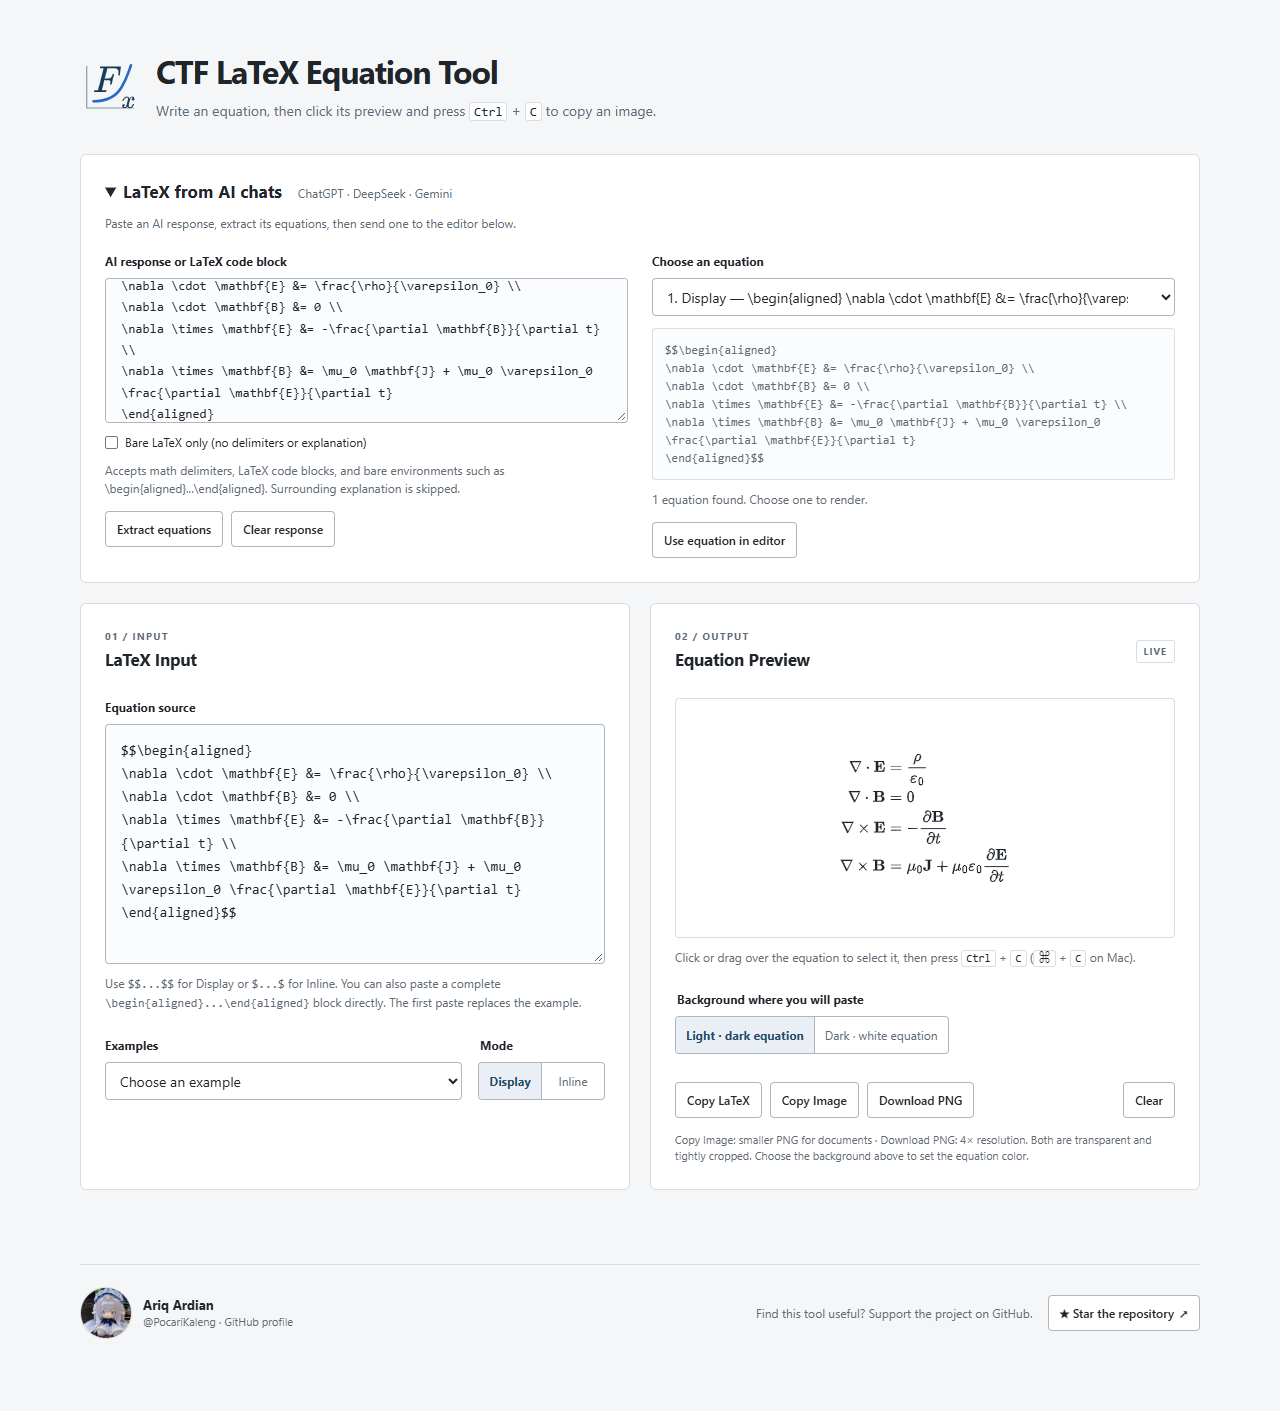
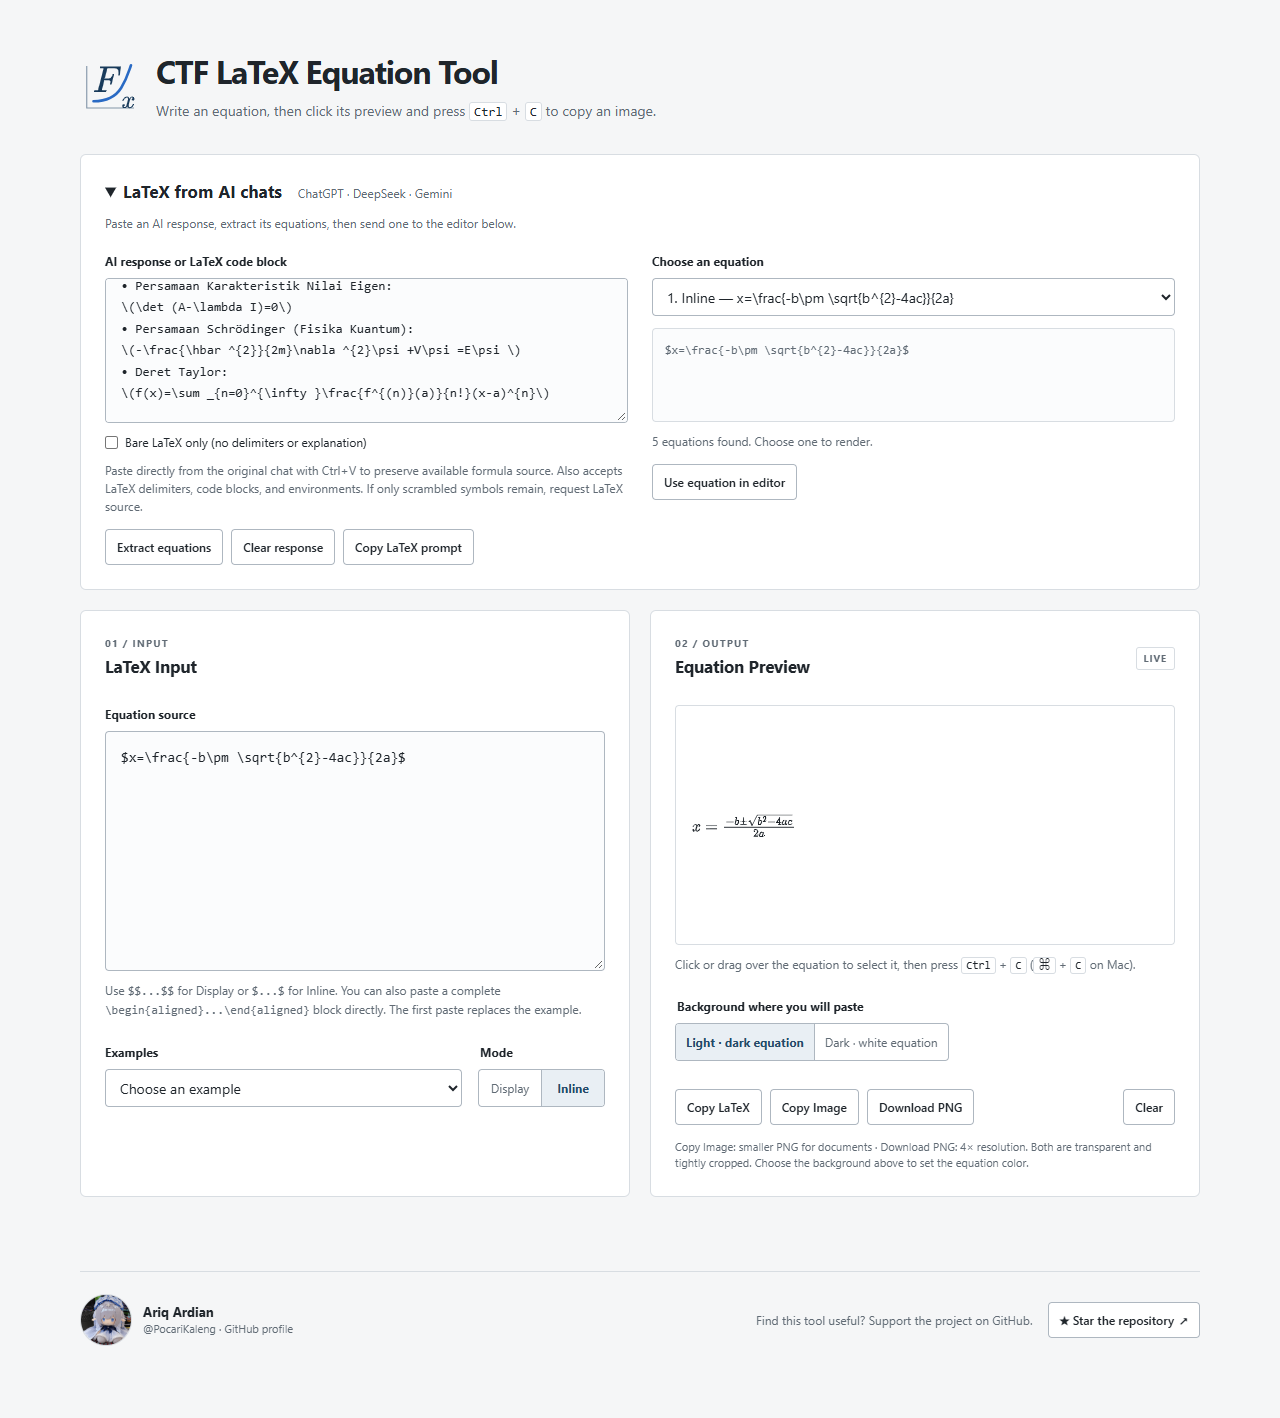
Recover LaTeX from rich paste and guide flattened math imports

diff --git a/script.js b/script.js
@@ -93,6 +93,42 @@ function extractAiEquations(source) {
   return equations;
 }
 
+function looksLikeFlattenedMath(source) {
+  return /[\u200b-\u200d\u2060]/.test(source) ||
+    (/[∫∑∏∂∇ℏ∞≤]/.test(source) && !/\\(?:[a-zA-Z]+|[\[(])/.test(source));
+}
+
+function extractClipboardEquations(html) {
+  if (!html) return [];
+  if (html.length > 1000000) throw new Error("Copied response is too large. Copy a smaller selection.");
+  // Template contents stay inert: pasted markup is never added to the live page.
+  const template = document.createElement("template");
+  template.innerHTML = html;
+  const equations = [];
+  const seenMath = new Set();
+  let characters = 0;
+  for (const annotation of template.content.querySelectorAll("math annotation[encoding]")) {
+    const encoding = annotation.getAttribute("encoding").trim().toLowerCase();
+    if (!["application/x-tex", "application/x-latex"].includes(encoding)) continue;
+    const math = annotation.closest("math");
+    const latex = annotation.textContent.trim();
+    if (!latex || seenMath.has(math)) continue;
+    seenMath.add(math);
+    characters += latex.length;
+    if (characters > 50000 || equations.length >= 100) {
+      throw new Error("Copy up to 100 equations and 50,000 LaTeX characters at a time.");
+    }
+    equations.push({
+      latex,
+      display: math.getAttribute("display") === "block" || Boolean(math.closest(".katex-display"))
+    });
+  }
+  return equations;
+}
+
+const FLATTENED_MATH_MESSAGE = "This looks like copied rendered math: fractions, powers, or duplicated formulas have lost their structure. Paste directly from the original chat with Ctrl+V, or use Copy LaTeX prompt to request the original LaTeX. Bare LaTeX cannot restore missing structure.";
+const LATEX_REQUEST = "Please return the equations from your previous response as LaTeX source. Put each complete equation in a separate fenced code block labeled latex. Preserve all fractions, exponents, integral and sum limits, matrices, and line breaks. Do not use rendered equations or duplicated Unicode math text. Preserve the equations as written; do not evaluate or change them.";
+
 const input = document.querySelector("#latex-input");
 let isUntouchedExample = input.value === input.defaultValue;
 const preview = document.querySelector("#equation-preview");
@@ -127,6 +163,38 @@ function showAiSelection() {
 }
 
 aiSource.addEventListener("input", resetAiResults);
+aiSource.addEventListener("paste", event => {
+  try {
+    const equations = extractClipboardEquations(event.clipboardData?.getData("text/html"));
+    if (!equations.length) return;
+    event.preventDefault();
+    const start = aiSource.selectionStart;
+    const end = aiSource.selectionEnd;
+    const pasted = equations.map(equation => wrapEquation(equation.latex, equation.display)).join("\n\n");
+    const prefix = start && aiSource.value[start - 1] !== "\n" ? "\n" : "";
+    const suffix = end < aiSource.value.length && aiSource.value[end] !== "\n" ? "\n" : "";
+    if (aiSource.value.length - (end - start) + prefix.length + pasted.length + suffix.length > 50000) {
+      throw new Error("Paste up to 50,000 characters at a time.");
+    }
+    aiSource.setRangeText(prefix + pasted + suffix, start, end, "end");
+    document.querySelector("#ai-raw").checked = false;
+    resetAiResults();
+    aiResult.textContent = equations.length + " equation source(s) recovered from rich text. Click Extract equations.";
+  } catch (error) {
+    event.preventDefault();
+    resetAiResults();
+    aiError.textContent = error.message;
+    aiError.hidden = false;
+  }
+});
+document.querySelector("#copy-latex-prompt").addEventListener("click", async () => {
+  try {
+    await navigator.clipboard.writeText(LATEX_REQUEST);
+    aiResult.textContent = "Prompt copied. Paste it into your AI chat, then copy its LaTeX code blocks here.";
+  } catch {
+    aiResult.textContent = LATEX_REQUEST;
+  }
+});
 document.querySelector("#ai-raw").addEventListener("change", resetAiResults);
 aiSelect.addEventListener("change", showAiSelection);
 document.querySelector("#extract-equations").addEventListener("click", () => {
@@ -135,11 +203,13 @@ document.querySelector("#extract-equations").addEventListener("click", () => {
     if (document.querySelector("#ai-raw").checked) {
       if (!aiSource.value.trim()) throw new Error("Paste a LaTeX equation first.");
       if (aiSource.value.length > 50000) throw new Error("Paste up to 50,000 characters at a time.");
+      if (looksLikeFlattenedMath(aiSource.value)) throw new Error(FLATTENED_MATH_MESSAGE);
       aiEquations = [{ latex: aiSource.value.trim(), display: true }];
     } else {
       aiEquations = extractAiEquations(aiSource.value);
     }
     if (!aiEquations.length) {
+      if (looksLikeFlattenedMath(aiSource.value)) throw new Error(FLATTENED_MATH_MESSAGE);
       throw new Error("No equations found. Paste a latex, tex, or math code block, or enclose the formula in $$...$$, $...$, \\[...\\], or \\(...\\).");
     }
     aiSelect.replaceChildren(...aiEquations.map((equation, index) =>

diff --git a/index.html b/index.html
@@ -20,7 +20,7 @@
       };
     </script>
     <script defer src="https://cdn.jsdelivr.net/npm/mathjax@3.2.2/es5/tex-svg.js"></script>
-    <script defer src="script.js?v=20261103-deepseek-aligned"></script>
+    <script defer src="script.js?v=20261103-rich-math"></script>
   </head>
   <body>
     <main class="app-shell">
@@ -42,10 +42,11 @@
             <label class="field-label" for="ai-source">AI response or LaTeX code block</label>
             <textarea id="ai-source" spellcheck="false" maxlength="50000" aria-describedby="ai-help" placeholder="Paste a response containing \[...\], \(...\), $$...$$, $...$, or a LaTeX code block."></textarea>
             <label class="ai-raw-option"><input type="checkbox" id="ai-raw"> Bare LaTeX only (no delimiters or explanation)</label>
-            <p class="field-help" id="ai-help">Accepts math delimiters, LaTeX code blocks, and bare environments such as \begin{aligned}...\end{aligned}. Surrounding explanation is skipped.</p>
+            <p class="field-help" id="ai-help">Paste directly from the original chat with Ctrl+V to preserve available formula source. Also accepts LaTeX delimiters, code blocks, and environments. If only scrambled symbols remain, request LaTeX source.</p>
             <div class="ai-import-actions">
               <button type="button" id="extract-equations">Extract equations</button>
               <button type="button" id="clear-ai">Clear response</button>
+              <button type="button" id="copy-latex-prompt">Copy LaTeX prompt</button>
             </div>
           </div>
           <div>

diff --git a/README.md b/README.md
@@ -23,6 +23,8 @@ Supported wrappers: display math with `$$...$$` or `\[...\]`, inline math with `
 
 This imports LaTeX text already generated in an AI chat. No AI account connection or API key is needed. Copy LaTeX source rather than a screenshot or rendered equation.
 
+Rich-text paste (Ctrl+V from the original chat) can recover equation source from MathML annotations when the clipboard includes it. Each math element is read once, so accessible and visual copies are not imported twice. Pasted markup stays in an inert template and is never inserted into the page. If only flattened Unicode text remains, fractions, powers, and duplicated display text cannot be reconstructed reliably. The importer explains this and offers **Copy LaTeX prompt** to request separate LaTeX code blocks from the AI. **Bare LaTeX only** is for actual LaTeX source; it does not repair flattened math.
+
 Bare math environments such as `aligned`, `gathered`, `align`, `equation`, `matrix`, `bmatrix`, and `cases` are also detected automatically, including nested environments. For example, DeepSeek's four-line Maxwell equations in `\begin{aligned}...\end{aligned}` can be pasted directly without enabling **Bare LaTeX only**. An incomplete or mismatched environment shows a correction message.
 
 ## Run locally
